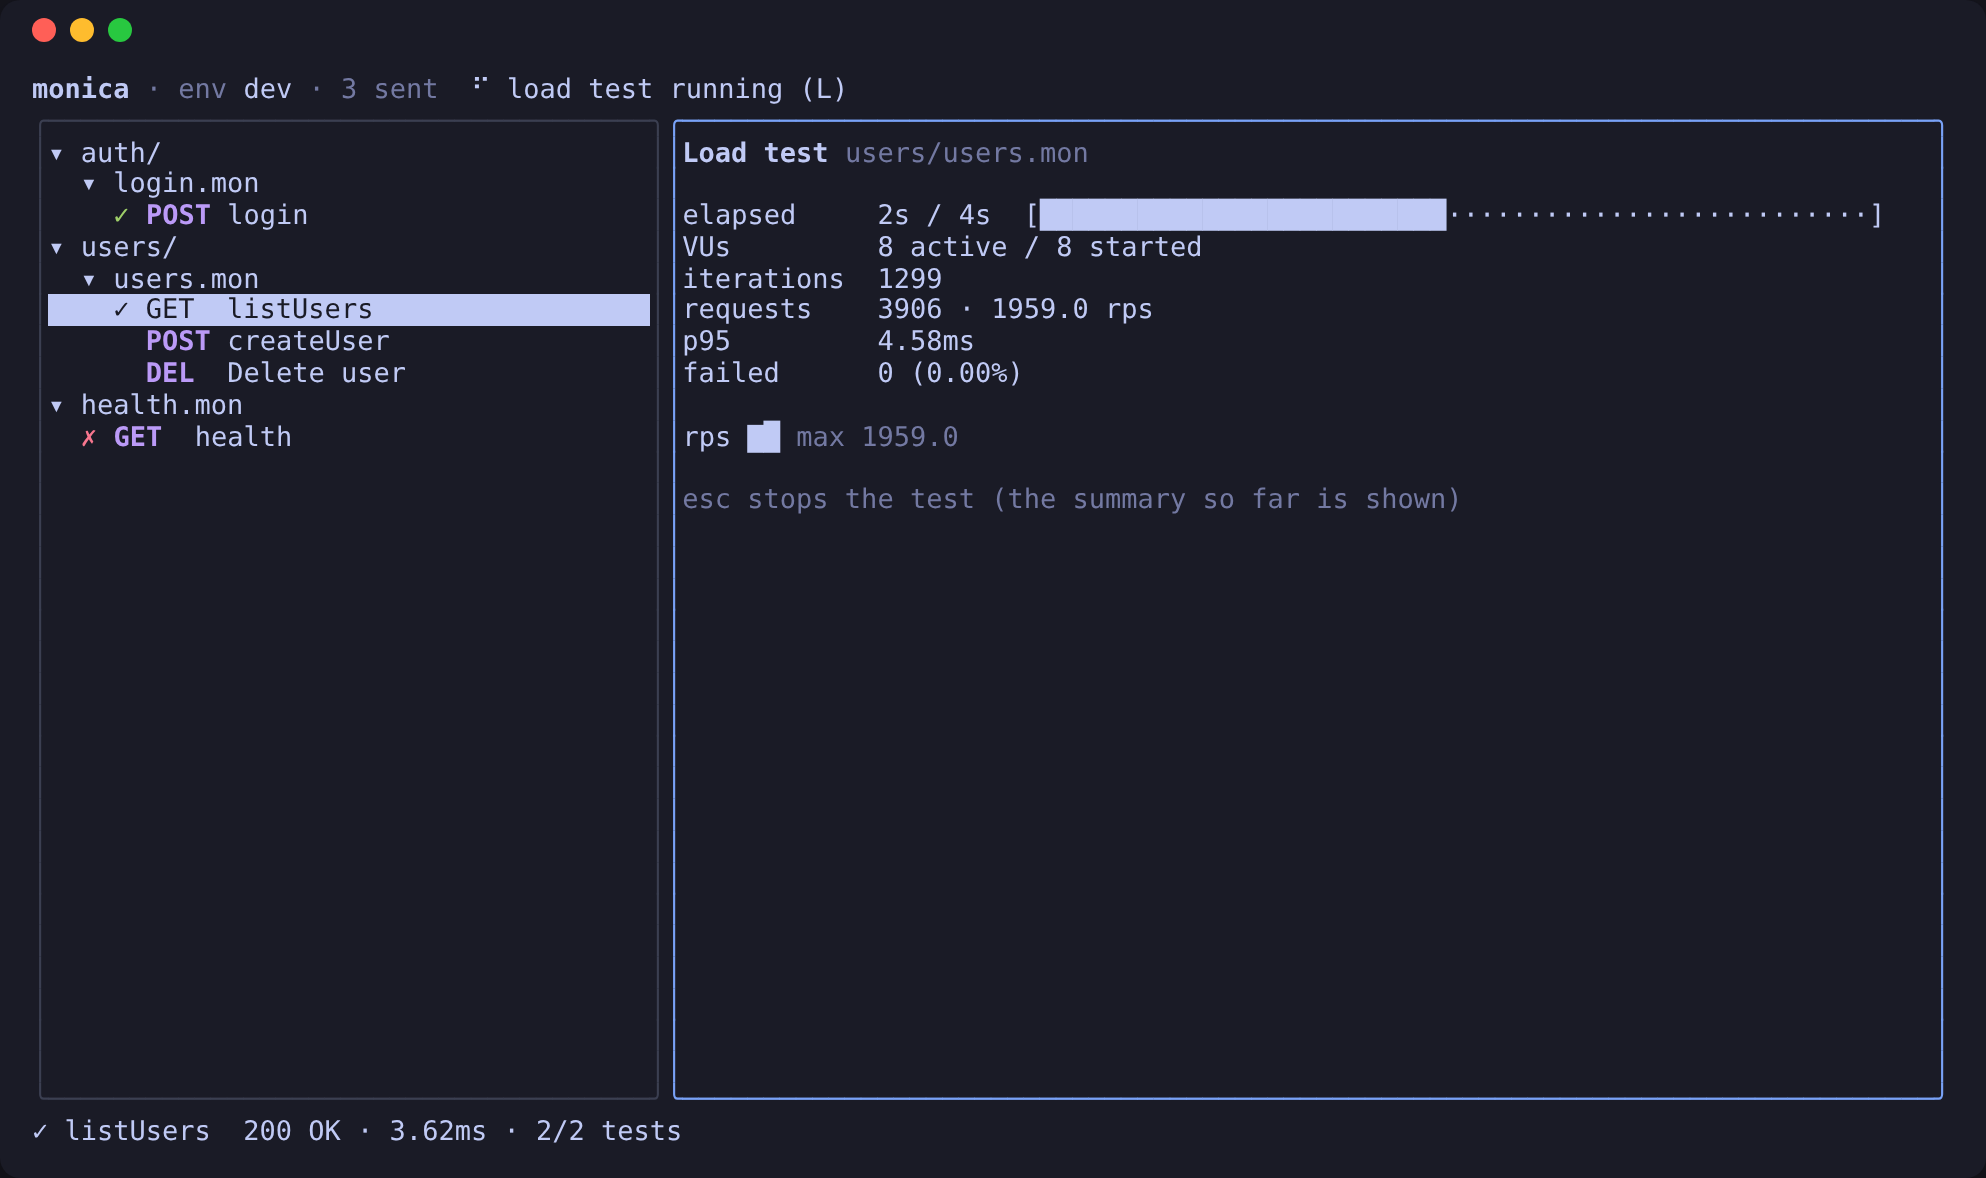
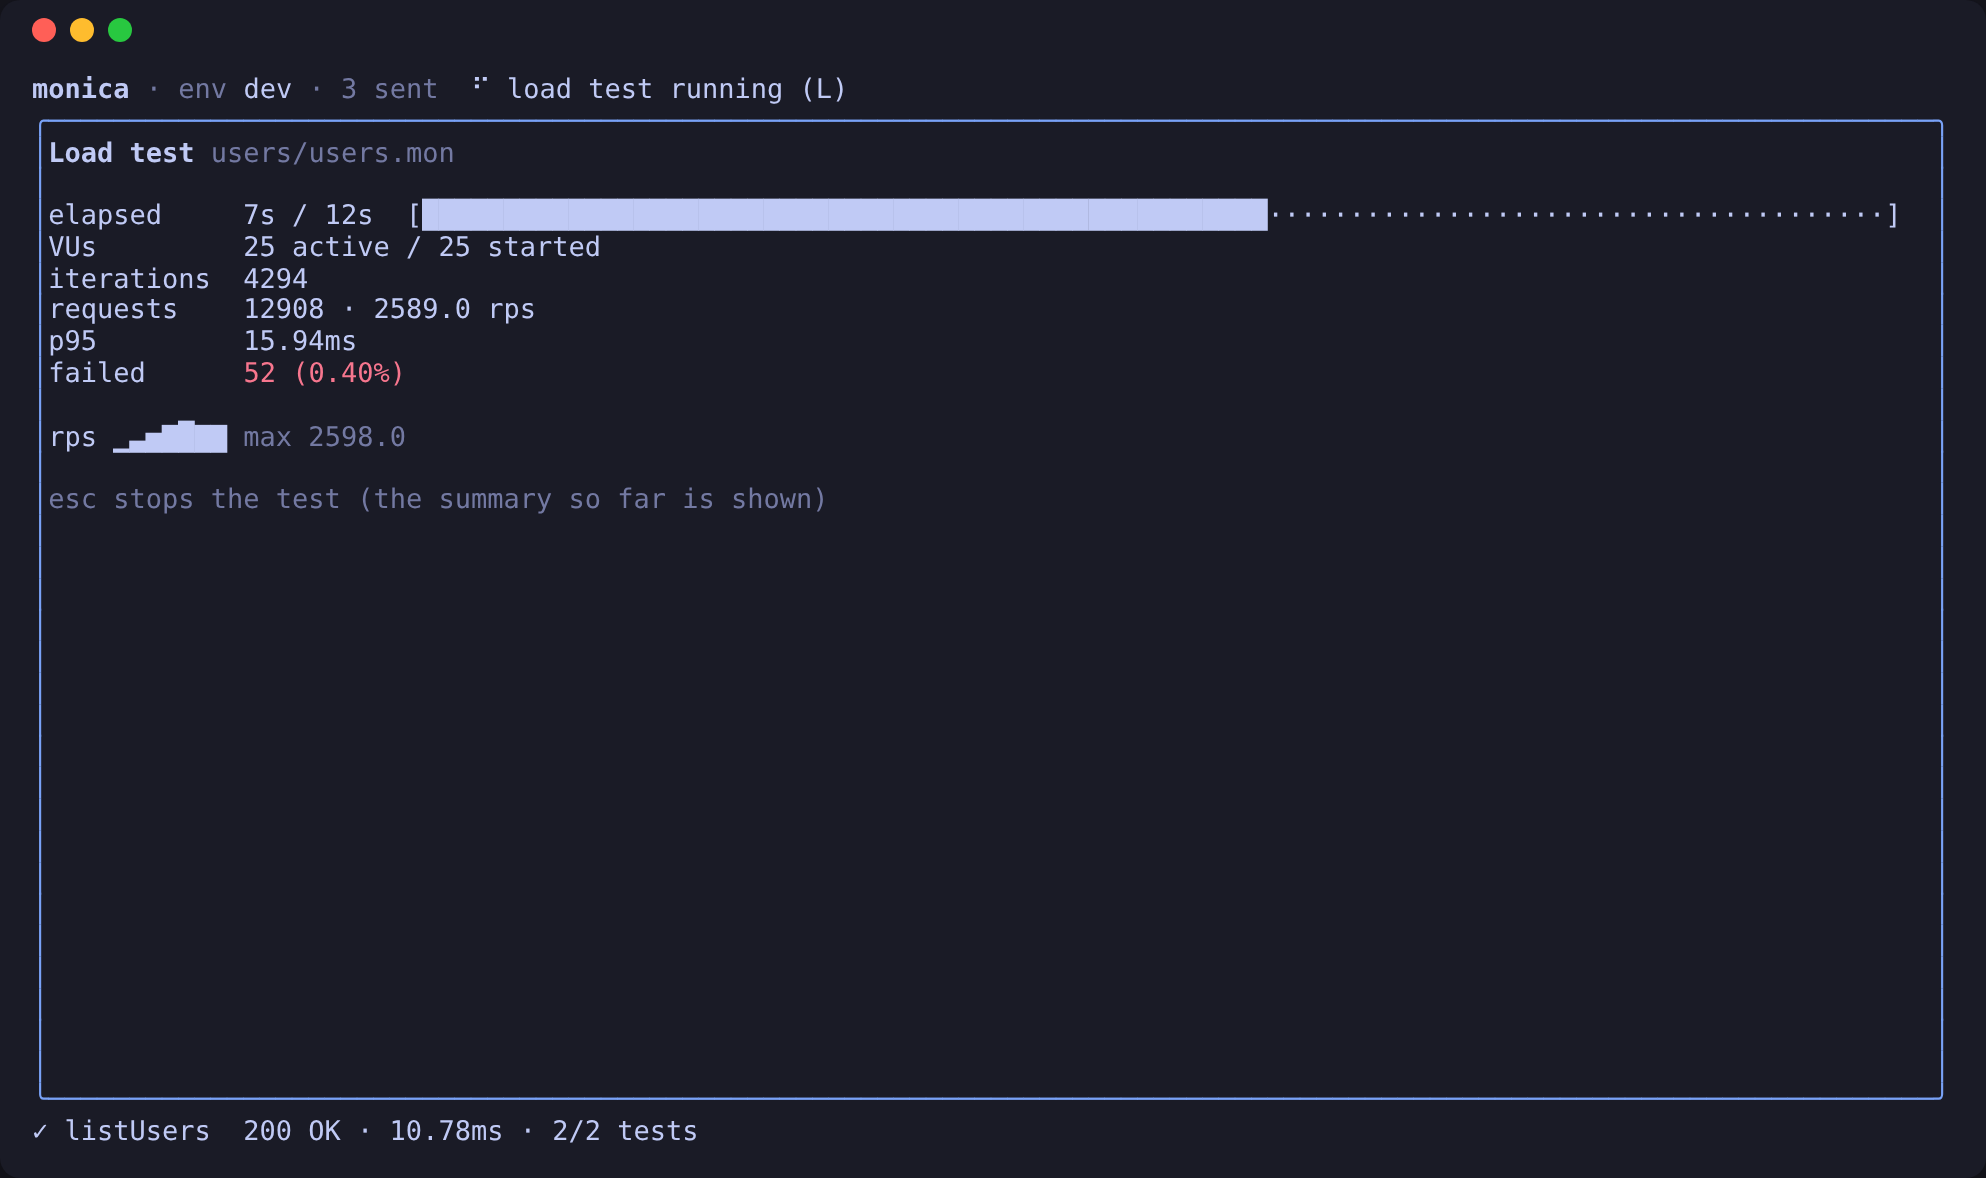
TUI: full-width load dashboard, colored thresholds; load screenshots
The load summary is a wide table and was cut off in the right-hand pane:
the dashboard now uses the whole window. Threshold marks are colored and
the status line says when thresholds failed. Adds screenshots of
monica load (live line, summary with thresholds) and refreshes the TUI
dashboard ones with a ramping test.

Claude-Session: https://claude.ai/code/session_01PzD3NPWqRWapTLVLeJsHAw

diff --git a/pkg/tui/view.go b/pkg/tui/view.go
@@ -155,6 +155,11 @@ func (m *Model) tabContent() string {
 // View implements tea.Model.
 func (m *Model) View() string {
 	header := m.headerLine()
+	if m.overlay == overlayLoad {
+		// The load summary is a wide table: give it the whole window.
+		body := box(m.loadView(m.width-4), m.width, m.bodyHeight(), true)
+		return lipgloss.JoinVertical(lipgloss.Left, header, body, m.footerLine())
+	}
 	var right string
 	if m.overlay != overlayNone {
 		right = box(m.overlayView(), m.rightWidth(), m.bodyHeight(), true)
@@ -349,8 +354,6 @@ func (m *Model) overlayView() string {
 			b.WriteString(line + "\n")
 		}
 		return b.String()
-	case overlayLoad:
-		return m.loadView(w)
 	case overlayHelp:
 		return bold.Render("Keys") + "\n\n" + strings.Join([]string{
 			"↑/↓ j/k       move          ←/→ h/l   fold / unfold",
@@ -403,7 +406,8 @@ func (m *Model) loadView(w int) string {
 		b.WriteString(dim.Render("esc stops the test (the summary so far is shown)"))
 		return b.String()
 	}
-	b.WriteString(l.summary + "\n" + dim.Render("esc close · L runs it again after closing"))
+	summary := strings.NewReplacer("  ✓ ", "  "+okStyle.Render("✓")+" ", "  ✗ ", "  "+errStyle.Render("✗")+" ").Replace(l.summary)
+	b.WriteString(summary + "\n" + dim.Render("esc close · L runs it again after closing"))
 	return b.String()
 }
 

diff --git a/pkg/tui/model.go b/pkg/tui/model.go
@@ -6,6 +6,7 @@ package tui
 
 import (
 	"context"
+	"fmt"
 	"os"
 	"os/exec"
 	"path/filepath"
@@ -242,6 +243,8 @@ func (m *Model) Update(msg tea.Msg) (tea.Model, tea.Cmd) {
 		m.load.summary, m.load.err = msg.summary, msg.err
 		if msg.err != nil {
 			m.setStatus("load test: "+msg.err.Error(), true)
+		} else if n := strings.Count(msg.summary, "  ✗ "); n > 0 {
+			m.setStatus(fmt.Sprintf("load test finished: %d threshold(s) failed", n), true)
 		} else {
 			m.setStatus("load test finished", false)
 		}

diff --git a/Readme.md b/Readme.md
@@ -210,6 +210,11 @@ all      2468  3       82.2  2.05ms  8.36ms  7.40ms  14.9ms  16.8ms  22.1ms  61.
 phases (avg / p95)  dns 0 / 0 · connect 95µs / 410µs · tls 0 / 0 · waiting 7.90ms / 16.1ms · receiving 310µs / 920µs
 ```
 
+![monica load: summary and thresholds](docs/images/load/cli-summary.png)
+
+While it runs, a progress line is redrawn on stderr ([screenshot](docs/images/load/cli-live.png)); the
+[TUI](#interactive-ui-monica-tui) has a live dashboard for the same test.
+
 * **Metrics** — one row per request (by file and line, named by its `@name`, title or
   `METHOD URL`) and an `all` row: count, failures, requests per second and the request time
   (send until the body is read) as min, average, p50/p90/p95/p99 and max. Percentiles come
